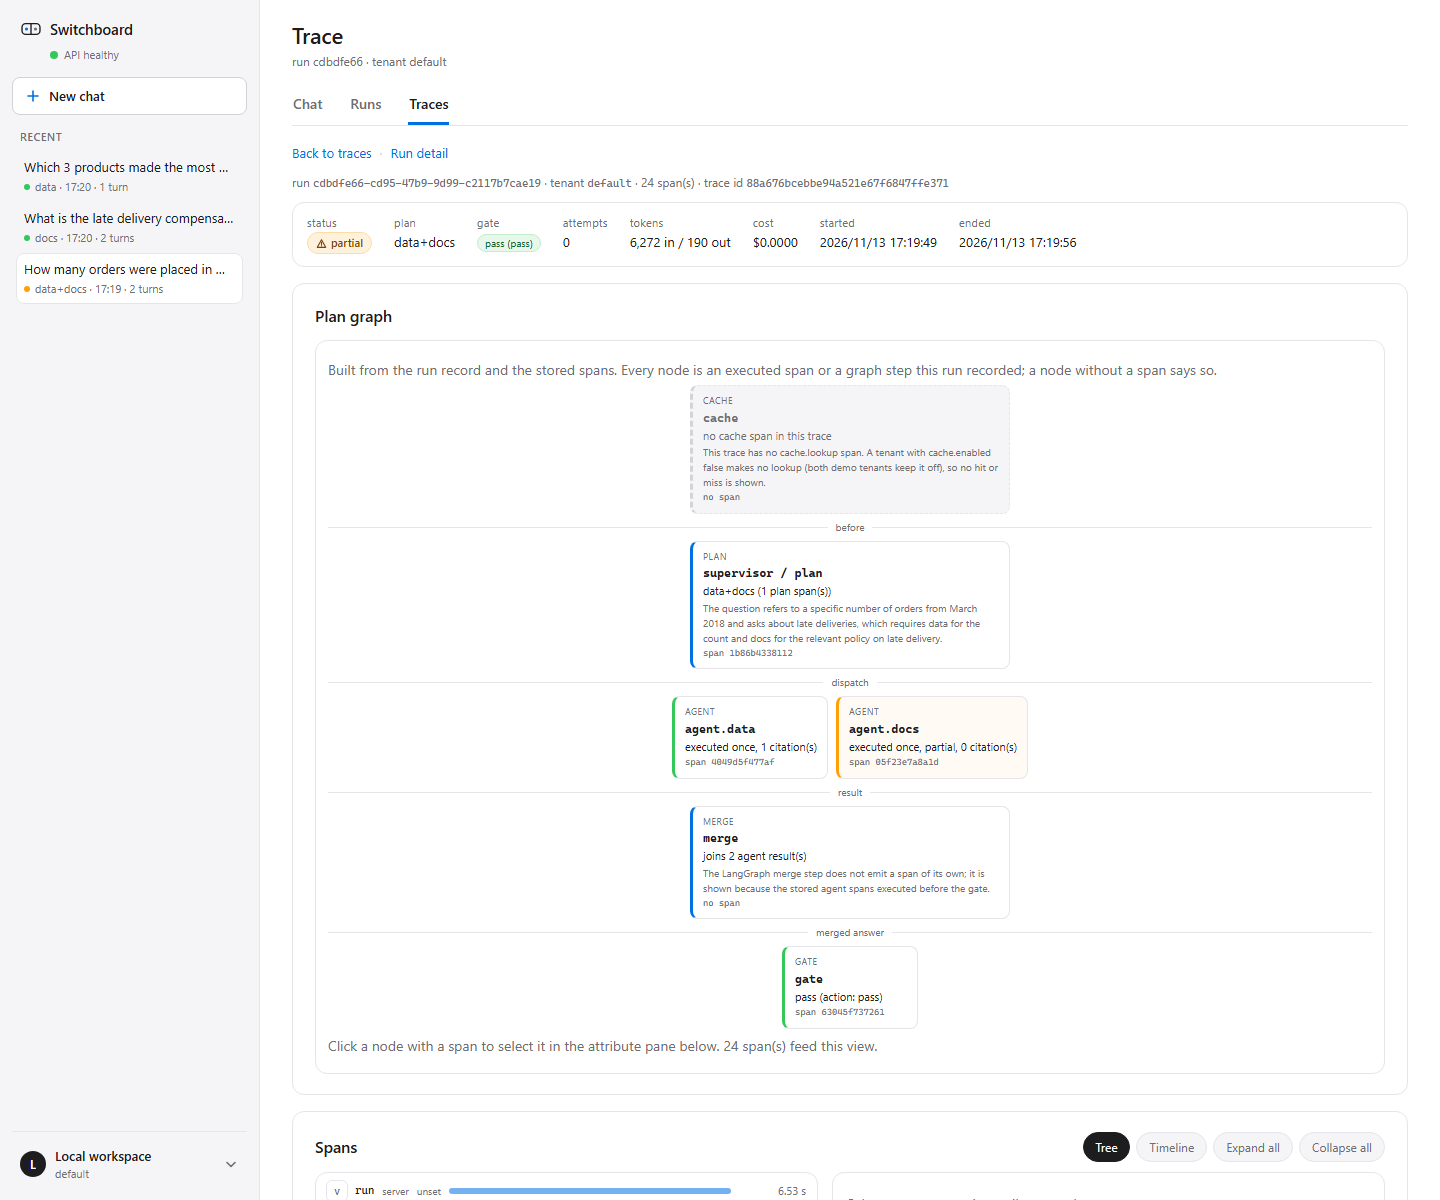
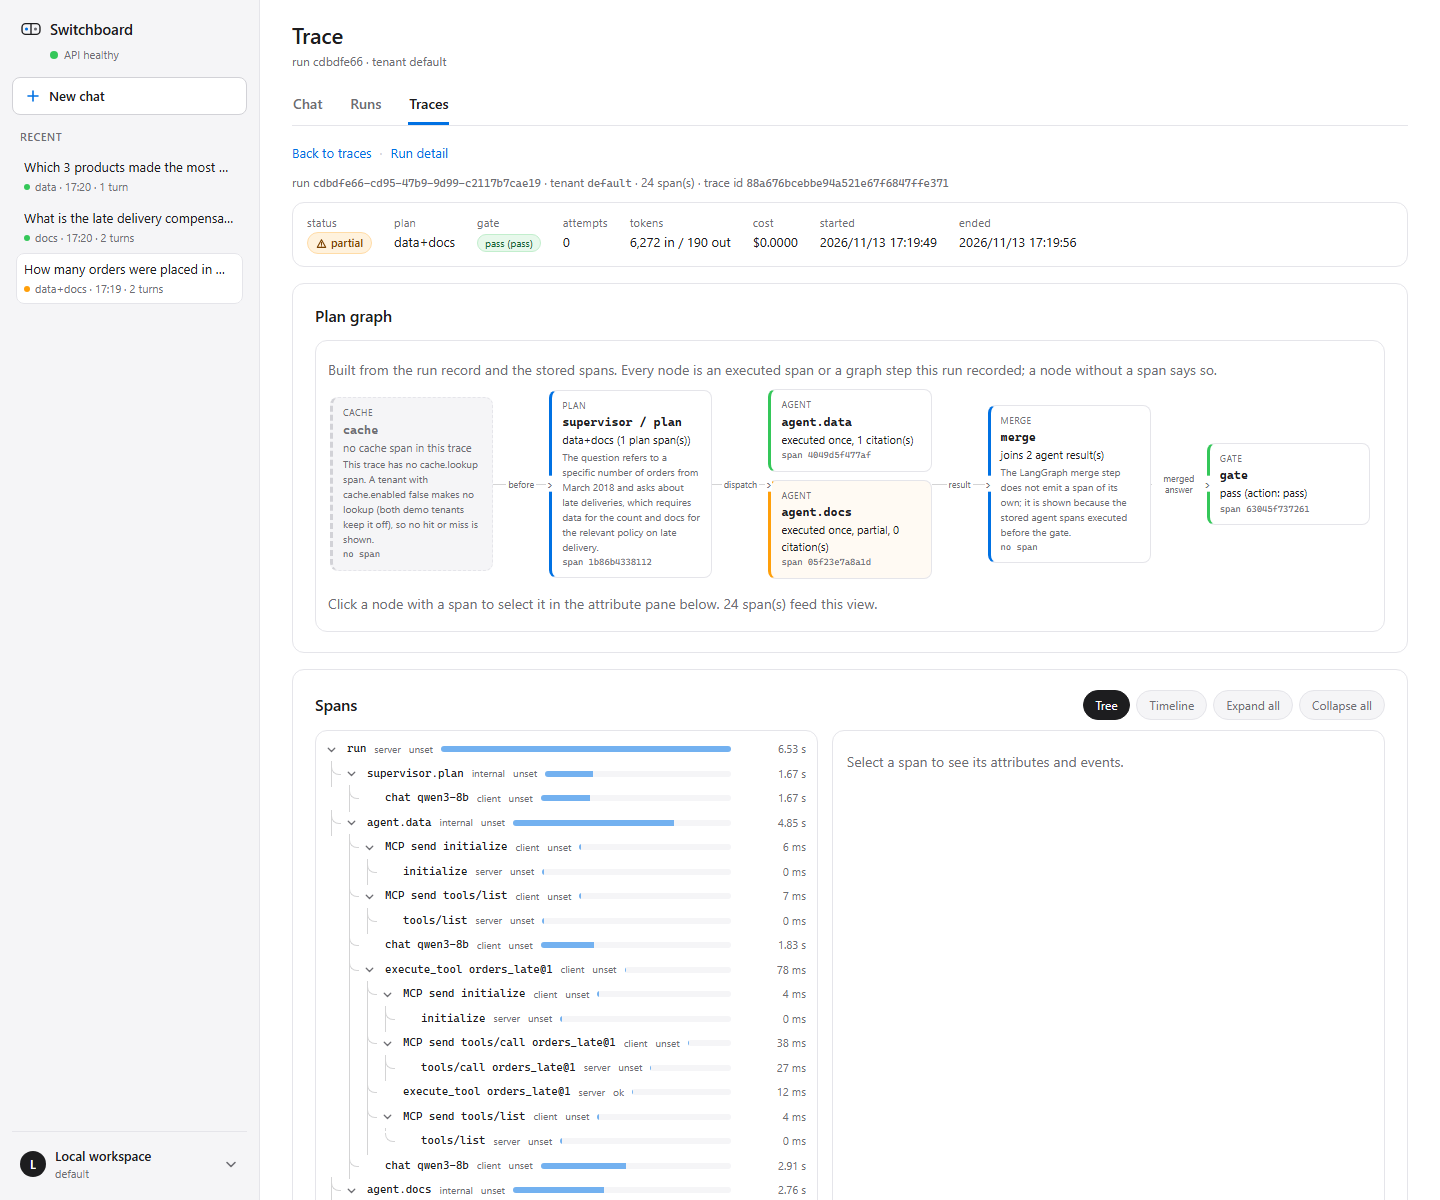
T3.03: horizontal plan flow and curved tree connectors

diff --git a/web/src/pages/TracePage.tsx b/web/src/pages/TracePage.tsx
@@ -120,12 +120,16 @@ function TreeRow({
 function TimelineRow({
   row,
   window,
+  expanded,
   selectedId,
+  onToggle,
   onSelect,
 }: {
   row: FlatSpan;
   window: { start: number; total: number };
+  expanded: ReadonlySet<string>;
   selectedId: string | null;
+  onToggle: (spanId: string) => void;
   onSelect: (spanId: string) => void;
 }) {
   const { span, depth } = row;
@@ -144,6 +148,7 @@ function TimelineRow({
       className={`timeline-row${selectedId === span.span_id ? " selected" : ""}`}
     >
       <div className="timeline-label" style={{ paddingLeft: `${depth * 14 + 2}px` }}>
+        <SpanToggle span={span} expanded={expanded} onToggle={onToggle} />
         <button
           type="button"
           className="timeline-select"
@@ -395,37 +400,40 @@ function PlanGraphView({
         Built from the run record and the stored spans. Every node is an executed span or a
         graph step this run recorded; a node without a span says so.
       </p>
-      {graph.layers.map((layer, index) => {
-        const from = index === 0 ? [] : graph.layers[index - 1];
-        const layerEdges = graph.edges.filter(
-          (edge) => !edge.corrective && from.includes(edge.from) && layer.includes(edge.to),
-        );
-        return (
-          <div key={`layer-${index}`} className="plan-layer-block">
-            {index > 0 ? (
-              <div className="plan-edge">
-                <span className="plan-edge-label">{edgeLabel(layerEdges)}</span>
+      <div className="plan-flow" role="list" aria-label="Plan flow, left to right">
+        {graph.layers.map((layer, index) => {
+          const from = index === 0 ? [] : graph.layers[index - 1];
+          const layerEdges = graph.edges.filter(
+            (edge) => !edge.corrective && from.includes(edge.from) && layer.includes(edge.to),
+          );
+          return (
+            <div key={`layer-${index}`} className="plan-flow-step">
+              {index > 0 ? (
+                <div className="plan-flow-edge" aria-hidden="true">
+                  <span className="plan-flow-label">{edgeLabel(layerEdges)}</span>
+                  <span className="plan-flow-arrow">›</span>
+                </div>
+              ) : null}
+              <div className="plan-flow-column" role="listitem">
+                {layer.map((id) => {
+                  const node = byId.get(id);
+                  if (node === undefined) {
+                    return null;
+                  }
+                  return (
+                    <PlanNodeCard
+                      key={node.id}
+                      node={node}
+                      selectedId={selectedId}
+                      onSelect={onSelect}
+                    />
+                  );
+                })}
               </div>
-            ) : null}
-            <div className="plan-layer">
-              {layer.map((id) => {
-                const node = byId.get(id);
-                if (node === undefined) {
-                  return null;
-                }
-                return (
-                  <PlanNodeCard
-                    key={node.id}
-                    node={node}
-                    selectedId={selectedId}
-                    onSelect={onSelect}
-                  />
-                );
-              })}
             </div>
-          </div>
-        );
-      })}
+          );
+        })}
+      </div>
       {corrective.length > 0 ? (
         <div className="plan-corrective">
           <strong>Corrective edges</strong>
@@ -727,16 +735,12 @@ export function TracePage({
                 >
                   Timeline
                 </button>
-                {activeView === "tree" ? (
-                  <>
-                    <button type="button" onClick={expandAll}>
-                      Expand all
-                    </button>
-                    <button type="button" onClick={collapseAll}>
-                      Collapse all
-                    </button>
-                  </>
-                ) : null}
+                <button type="button" onClick={expandAll}>
+                  Expand all
+                </button>
+                <button type="button" onClick={collapseAll}>
+                  Collapse all
+                </button>
               </div>
             </div>
 
@@ -788,18 +792,20 @@ export function TracePage({
                       <span className="timeline-offset">start</span>
                       <span className="timeline-duration">duration</span>
                     </div>
-                    {allRows.map((row) => (
+                    {visibleRows.map((row) => (
                       <TimelineRow
                         key={row.span.span_id}
                         row={row}
                         window={window}
+                        expanded={expanded}
                         selectedId={selectedId}
+                        onToggle={handleToggle}
                         onSelect={selectSpan}
                       />
                     ))}
                   </>
                 )}
-                {activeView === "tree" && visibleRows.length < allRows.length ? (
+                {visibleRows.length < allRows.length ? (
                   <p className="muted timeline-hint">
                     {allRows.length - visibleRows.length} span(s) are hidden by a collapsed parent.
                   </p>

diff --git a/web/src/styles.css b/web/src/styles.css
@@ -1982,8 +1982,8 @@ dialog::backdrop {
 
 .tree-guide.has-line::before {
   position: absolute;
-  top: 0;
-  bottom: 0;
+  top: -2px;
+  bottom: -2px;
   left: 9px;
   border-left: 1px solid color-mix(in srgb, var(--text-secondary) 30%, var(--bg));
   content: "";
@@ -1991,23 +1991,30 @@ dialog::backdrop {
 
 .tree-branch::before {
   position: absolute;
-  top: 0;
-  bottom: 50%;
+  top: -2px;
   left: 9px;
-  border-left: 1px solid color-mix(in srgb, var(--text-secondary) 30%, var(--bg));
+  width: 1px;
+  height: calc(50% - 8px);
+  background: color-mix(in srgb, var(--text-secondary) 30%, var(--bg));
   content: "";
 }
 
 .tree-branch.continue::before {
-  bottom: 0;
+  bottom: -2px;
+  height: auto;
 }
 
+/* The branch curves into the node instead of meeting it at a hard right
+   angle. The box draws the quarter circle; the vertical line above meets it. */
 .tree-branch::after {
   position: absolute;
-  top: 50%;
-  right: 0;
+  top: calc(50% - 8px);
   left: 9px;
-  border-top: 1px solid color-mix(in srgb, var(--text-secondary) 30%, var(--bg));
+  width: 9px;
+  height: 8px;
+  border-bottom: 1px solid color-mix(in srgb, var(--text-secondary) 30%, var(--bg));
+  border-left: 1px solid color-mix(in srgb, var(--text-secondary) 30%, var(--bg));
+  border-bottom-left-radius: 8px;
   content: "";
 }
 
@@ -2180,6 +2187,77 @@ dialog::backdrop {
   border: 1px solid var(--border);
   border-radius: var(--radius-md);
   background: var(--bg);
+}
+
+.plan-flow {
+  display: flex;
+  align-items: stretch;
+  gap: 0;
+  overflow-x: auto;
+  padding: 4px 2px 8px;
+}
+
+.plan-flow-step {
+  display: contents;
+}
+
+.plan-flow-column {
+  display: flex;
+  flex: 1 1 0;
+  flex-direction: column;
+  justify-content: center;
+  gap: 8px;
+  min-width: 150px;
+}
+
+.plan-flow-column .plan-node {
+  width: 100%;
+  min-width: 0;
+  max-width: none;
+}
+
+.plan-flow-edge {
+  position: relative;
+  display: flex;
+  flex: 0 0 56px;
+  flex-direction: column;
+  align-items: center;
+  justify-content: center;
+  width: 56px;
+  color: var(--text-secondary);
+  font-size: 9px;
+  line-height: 1.2;
+  text-align: center;
+}
+
+.plan-flow-edge::before {
+  position: absolute;
+  top: 50%;
+  right: 0;
+  left: 0;
+  border-top: 1px solid color-mix(in srgb, var(--text-secondary) 30%, var(--bg));
+  content: "";
+}
+
+.plan-flow-label {
+  position: relative;
+  z-index: 1;
+  max-width: 54px;
+  padding: 0 2px;
+  background: var(--bg);
+  white-space: normal;
+}
+
+.plan-flow-arrow {
+  position: absolute;
+  top: 50%;
+  right: -4px;
+  z-index: 1;
+  padding: 0 1px;
+  background: var(--bg);
+  font-size: 16px;
+  line-height: 1;
+  transform: translateY(-52%);
 }
 
 .plan-layer-block {

diff --git a/docs/spec/progress.md b/docs/spec/progress.md
@@ -54,4 +54,4 @@ One line per task. Status is `todo`, `doing`, `blocked` (say on what), `deferred
 
 | Task | Status | Commit | Notes |
 | --- | --- | --- | --- |
-| T3.03 | done | d9ab68c | Visual design pass on main. Backend: `GET /settings?tenant_id=` returns a read-only JSON snapshot built once in `build_app_deps` from `Settings`, the agent entry points and the tool manifests (platform choices and limits, tenant allowlists, seller scope, retrieval and cache, provider name/model/capabilities/price, tool and agent specs with `allowed`); no API key, base URL, database URL or token secret, unknown tenant 404 and a missing snapshot 503. `GET /runs` gained an optional `session_id` filter applied in SQL with the tenant, so the chat page rebuilds a stored conversation from run rows. 8 settings tests plus a session-filter test; 650 unit and contract tests pass with 47 integration skips outside env, and 33 integration tests pass with 2 skips (Jaeger absent, record switch) with `.env`. Web: app shell with a 260 px sidebar (72 px rail at 1024 to 1279, native-dialog drawer under 1024), title row and a Chat/Runs/Traces tab bar scoped to the current conversation, top-level `#/traces`, chat transcript with compact run summary (gate shows "not recorded" for stored runs because the run row does not persist it), restyled runs table with a container-driven stacked layout, native settings dialog with 7 sections (Retrieval & Cache split into Retrieval and Cache to reach seven), inline SVG icons, no new npm dependency. `npm run build`: index 0.39 kB, CSS 31.56 kB (6.50 gzip), JS 303.94 kB (89.70 gzip), up from T2.14's CSS 10.89 kB and JS 265.07 kB. 21 screenshots under `docs/ui-*.png` (including `ui-trace-tree-1440.png` and `ui-trace-timeline-1440.png`, plus `ui-rail-1100.png`), taken with headless Chrome on live run cdbdfe66-cd95-47b9-9d99-c2117b7cae19 (24 spans) and session `demo-orders`. Checks: 375 has no horizontal scroll (document and main scrollWidth 375), the runs table is stacked with `data-label` headers, the dialog has 7 tabs, Escape closes it and focus returns to the Settings menu item at 1440 or to the menu button under 1024, ArrowRight on the tab bar selects Traces, and an Enter keydown while `isComposing` does not submit. `docs/ui.md` holds the tokens, layout, breakpoints, component rules, accessibility checklist and the 375/768/1440 checks. Post-review fixes: the settings section row wraps at 375 instead of scrolling, and a corrected gate error on an ok run collapses under a disclosure instead of a full red box. Follow-up after author review: the three tabs are scoped to the current conversation and every tab href carries its `session`, so switching Chat to Runs or Traces and back keeps the same transcript; Runs and Traces call `GET /runs?session_id=`, and the tenant filter was removed because switching tenant starts a new conversation; the settings dialog is a fixed 1000 by 760 desktop dialog and viewport-filling on a phone, so changing sections does not resize it. The sidebar now reads `GET /sessions`, one row per chat grouped by `session_id` (first question as title, latest plan and time, run count), instead of one row per run; sessionless runs are excluded. Chat answers render a safe local Markdown subset (paragraphs, ordered/unordered lists, bold/italic, inline and fenced code, http links) with no new dependency; raw HTML stays text. The feedback form was removed from the chat transcript and remains on the run detail. The trace tree now draws per-ancestor connector lines and a last-child corner, with a small SVG chevron only on expandable rows; the timeline has no per-row toggles and shows every span, and Expand all/Collapse all appear only in Tree. `npm run build`: CSS 33.43 kB (6.83 gzip), JS 307.52 kB (91.00 gzip); screenshots refreshed, and a live check showed 3 conversation rows, clicking one opened its stored turns, the same session in all tab URLs, a 3-item rendered product list with no raw `**`, no chat feedback text, 11 tree chevrons with 23 connectors, zero timeline toggles, and a 1000 by 760 dialog on both Account and Model. ruff, format, mypy and both eval gates untouched; CI runs on the pushed branch |
+| T3.03 | done | d9ab68c | Visual design pass on main. Backend: `GET /settings?tenant_id=` returns a read-only JSON snapshot built once in `build_app_deps` from `Settings`, the agent entry points and the tool manifests (platform choices and limits, tenant allowlists, seller scope, retrieval and cache, provider name/model/capabilities/price, tool and agent specs with `allowed`); no API key, base URL, database URL or token secret, unknown tenant 404 and a missing snapshot 503. `GET /runs` gained an optional `session_id` filter applied in SQL with the tenant, so the chat page rebuilds a stored conversation from run rows. 8 settings tests plus a session-filter test; 650 unit and contract tests pass with 47 integration skips outside env, and 33 integration tests pass with 2 skips (Jaeger absent, record switch) with `.env`. Web: app shell with a 260 px sidebar (72 px rail at 1024 to 1279, native-dialog drawer under 1024), title row and a Chat/Runs/Traces tab bar scoped to the current conversation, top-level `#/traces`, chat transcript with compact run summary (gate shows "not recorded" for stored runs because the run row does not persist it), restyled runs table with a container-driven stacked layout, native settings dialog with 7 sections (Retrieval & Cache split into Retrieval and Cache to reach seven), inline SVG icons, no new npm dependency. `npm run build`: index 0.39 kB, CSS 31.56 kB (6.50 gzip), JS 303.94 kB (89.70 gzip), up from T2.14's CSS 10.89 kB and JS 265.07 kB. 21 screenshots under `docs/ui-*.png` (including `ui-trace-tree-1440.png` and `ui-trace-timeline-1440.png`, plus `ui-rail-1100.png`), taken with headless Chrome on live run cdbdfe66-cd95-47b9-9d99-c2117b7cae19 (24 spans) and session `demo-orders`. Checks: 375 has no horizontal scroll (document and main scrollWidth 375), the runs table is stacked with `data-label` headers, the dialog has 7 tabs, Escape closes it and focus returns to the Settings menu item at 1440 or to the menu button under 1024, ArrowRight on the tab bar selects Traces, and an Enter keydown while `isComposing` does not submit. `docs/ui.md` holds the tokens, layout, breakpoints, component rules, accessibility checklist and the 375/768/1440 checks. Post-review fixes: the settings section row wraps at 375 instead of scrolling, and a corrected gate error on an ok run collapses under a disclosure instead of a full red box. Follow-up after author review: the three tabs are scoped to the current conversation and every tab href carries its `session`, so switching Chat to Runs or Traces and back keeps the same transcript; Runs and Traces call `GET /runs?session_id=`, and the tenant filter was removed because switching tenant starts a new conversation; the settings dialog is a fixed 1000 by 760 desktop dialog and viewport-filling on a phone, so changing sections does not resize it. The sidebar now reads `GET /sessions`, one row per chat grouped by `session_id` (first question as title, latest plan and time, run count), instead of one row per run; sessionless runs are excluded. Chat answers render a safe local Markdown subset (paragraphs, ordered/unordered lists, bold/italic, inline and fenced code, http links) with no new dependency; raw HTML stays text. The feedback form was removed from the chat transcript and remains on the run detail. The trace tree draws continuous per-ancestor connectors that curve into each node, with a small SVG chevron only on expandable rows; the timeline uses the same chevrons and both views expose Expand all/Collapse all. The plan graph is a left-to-right flow with labeled connector columns instead of stacked layers. `npm run build`: CSS 34.54 kB (7.04 gzip), JS 307.77 kB (91.03 gzip); screenshots refreshed, and a live check showed 3 conversation rows, clicking one opened its stored turns, the same session in all tab URLs, a 3-item rendered product list with no raw `**`, no chat feedback text, 11 tree chevrons with 23 connectors, 11 matching timeline chevrons, a 5-column/4-edge left-to-right plan flow, and a 1000 by 760 dialog on both Account and Model. ruff, format, mypy and both eval gates untouched; CI runs on the pushed branch |

diff --git a/docs/ui.md b/docs/ui.md
@@ -46,7 +46,7 @@ The shell is a two-column grid at `100dvh`: `<aside class="sidebar">` and a scro
 - **Drawer (under 1024 px).** A native `<dialog>` holding the full sidebar; opened from the menu button in the title row. The browser provides focus containment, Escape and focus return; a light backdrop click closes it, with a pointer-position fallback where `closedby` is missing.
 - **Chat.** The transcript scrolls; the composer is pinned to the bottom of the view. Above the composer sits one compact run summary bar for the latest turn (plan, status, latency, tokens, cost, gate, cache). The bar's `Steps (n)` disclosure expands the live step list inline. There is no right inspector column; a citation chip opens the trace page at the cited span.
 - **Runs.** The runs of the current conversation, with status and plan filters and a refresh button, then a semantic table with a row header, sticky column headers and row links. The tenant is fixed for the session; switching tenant starts a new conversation.
-- **Traces.** The traces of the current conversation, one per run, with plan, status, latency, cache and trace completeness; opening one keeps the existing trace page with Timeline, Tree, Expand all, Collapse all and the plan graph. The tree draws connector lines for each ancestor and a corner for the last child, with a small chevron only on rows that have children. The timeline has no per-row toggles and shows every span; Expand all and Collapse all appear only in Tree.
+- **Traces.** The traces of the current conversation, one per run, with plan, status, latency, cache and trace completeness; opening one keeps the existing trace page with Timeline, Tree, Expand all, Collapse all and the plan graph. The tree draws connector lines for each ancestor and a corner for the last child, with a small chevron only on rows that have children. The timeline uses the same chevron toggles so both views share one expansion state; Expand all and Collapse all are available in both.
 - **Run detail and trace detail.** Their own header information plus a back link; the global tabs above stay in place and no page repeats them.
 - **Settings.** A native modal `<dialog>` opened from the profile menu: a read-only notice, a vertical section sub-nav (Account, General, Model, Tools & MCP, Agents, Retrieval, Cache) and read-only cards on the right. The dialog keeps a fixed 1000 by 760 desktop size (and a fixed viewport-filling size on a phone) so changing sections does not resize the window; the content column scrolls inside it. Closing is by the close button, Escape or a backdrop click, and focus returns to the menu item that opened it.
 
@@ -116,7 +116,7 @@ Manual checks, at 1440x1200, 768x1200 and 375x900 (Chrome device emulation or a 
 6. **1440 wide, shell.** The 260 px sidebar, independent recent-list scroll, title row and tabs are all visible, and the transcript is capped at 860 px.
 7. **Keyboard only.** Tab reaches the skip link, the sidebar, the tabs, the page content, the composer and the send button in that order; the tab bar is one stop and the arrow keys move between tabs; the profile menu opens with Enter and closes with Escape.
 8. **Status.** Force a status (`partial`, `needs_clarification` or an error) and confirm the glyph and the label change, not only the colour.
-9. **Trace tree and timeline.** Tree rows are connected by visible guide lines, only expandable rows show a chevron, and the timeline has no toggles or Expand/Collapse buttons.
+9. **Trace tree and timeline.** Tree rows are connected by visible guide lines and only expandable rows show a chevron; the timeline uses the same chevrons and both views expose Expand all and Collapse all.
 10. **Read-only settings.** The dialog shows values from `GET /settings`; stopping the API and reopening it shows the error box and no values.
 
 Screenshots of these checks are committed under `docs/` with the run and viewport in the name, and progress.md records them.
